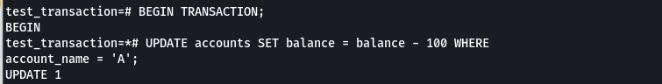
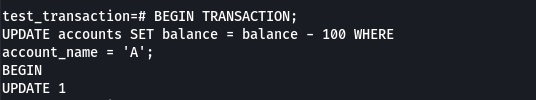
fc10

Changed region(s): [[0.0, 0.0, 0.7463, 1.0]]

diff --git a/_posts/2024-05-26-DBS101_FlippedClass10.md b/_posts/2024-05-26-DBS101_FlippedClass10.md
@@ -17,7 +17,7 @@ Transaction is started with the command `begin transaction` and ended with `end 
 
 ### Transaction Properties
 What are the properties a transaction should possess?
-![alt text](img/DBS/image-6.png)
+![alt text](image-4.png)
 
 ### A Simple Transaction Model
 Consider a transaction Ti that transfers $50 from account A to account B.
@@ -45,10 +45,7 @@ Execute transactions serially or use
 concurrency control.
 
 We did this transaction in postgresql.
-![alt text](img/DBS/image-7.png)
-
-![alt text](img/DBS/image-8.png)
-
+![alt text](image.png)
 ### Storage Structure
 
 It is categorized based on speed, capacity, and resilience:
@@ -68,22 +65,20 @@ consistent state, persisting despite system failures.
 compensating transactions may be necessary.
 
 ### A simple abstract transaction model:
-![alt text](img/DBS/image.png)
+![alt text](image-3.png)
 
 - Active: Initial state, transaction executing.
-![alt text](img/DBS/image-1.png)
+![alt text](image-1.png)
 
 - Partially committed: After final statement execution.
-![alt text](img/DBS/image-2.png)
+![alt text](image-2.png)
 
 - Failed: Normal execution can't proceed.
-![alt text](img/DBS/image-3.png)
 
 - Aborted: Rolled back, database restored to pre-transaction state.
-![alt text](img/DBS/image-4.png)
+
 
 - Committed: Successfully completed.
-![alt text](img/DBS/image-5.png)
 
 
 ### Transaction States and Handling Failures
